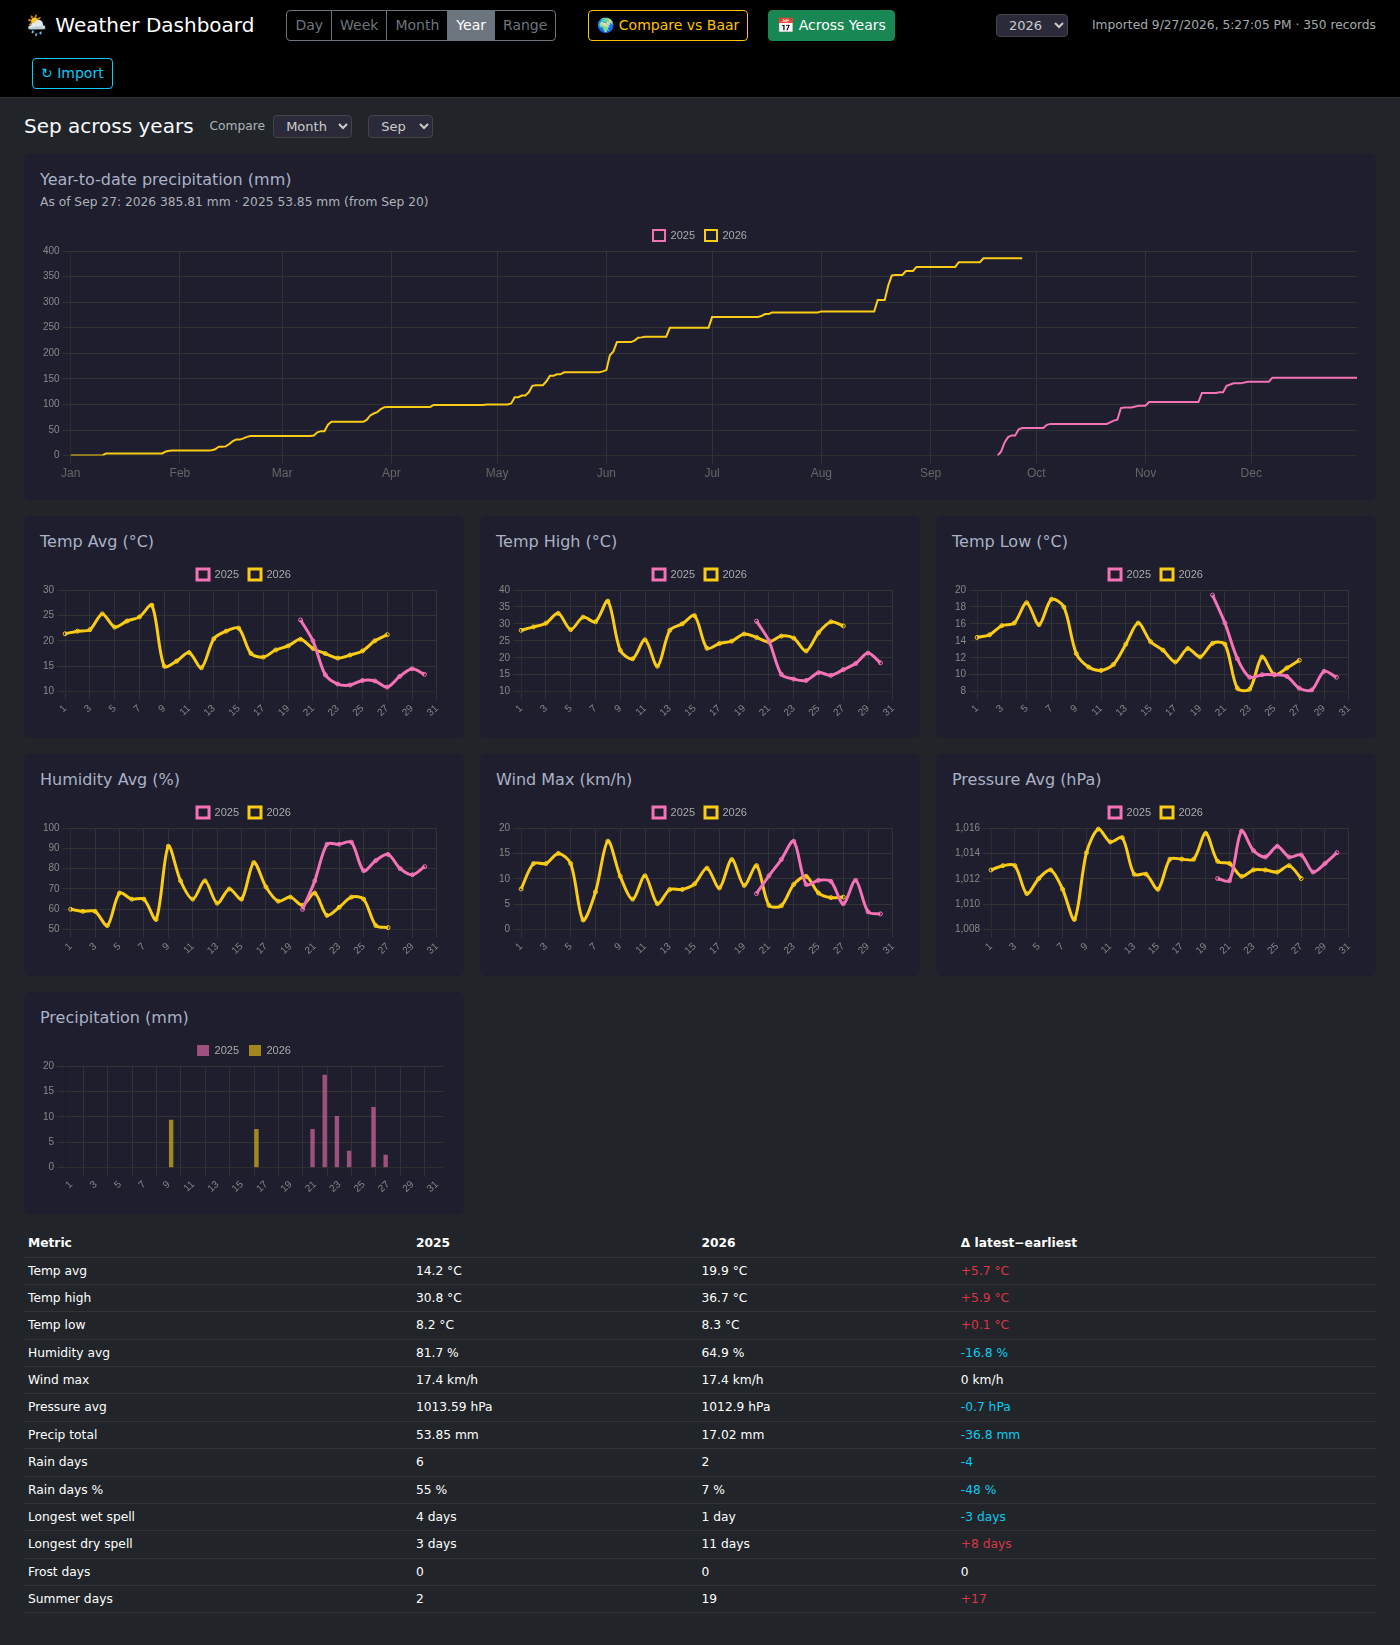
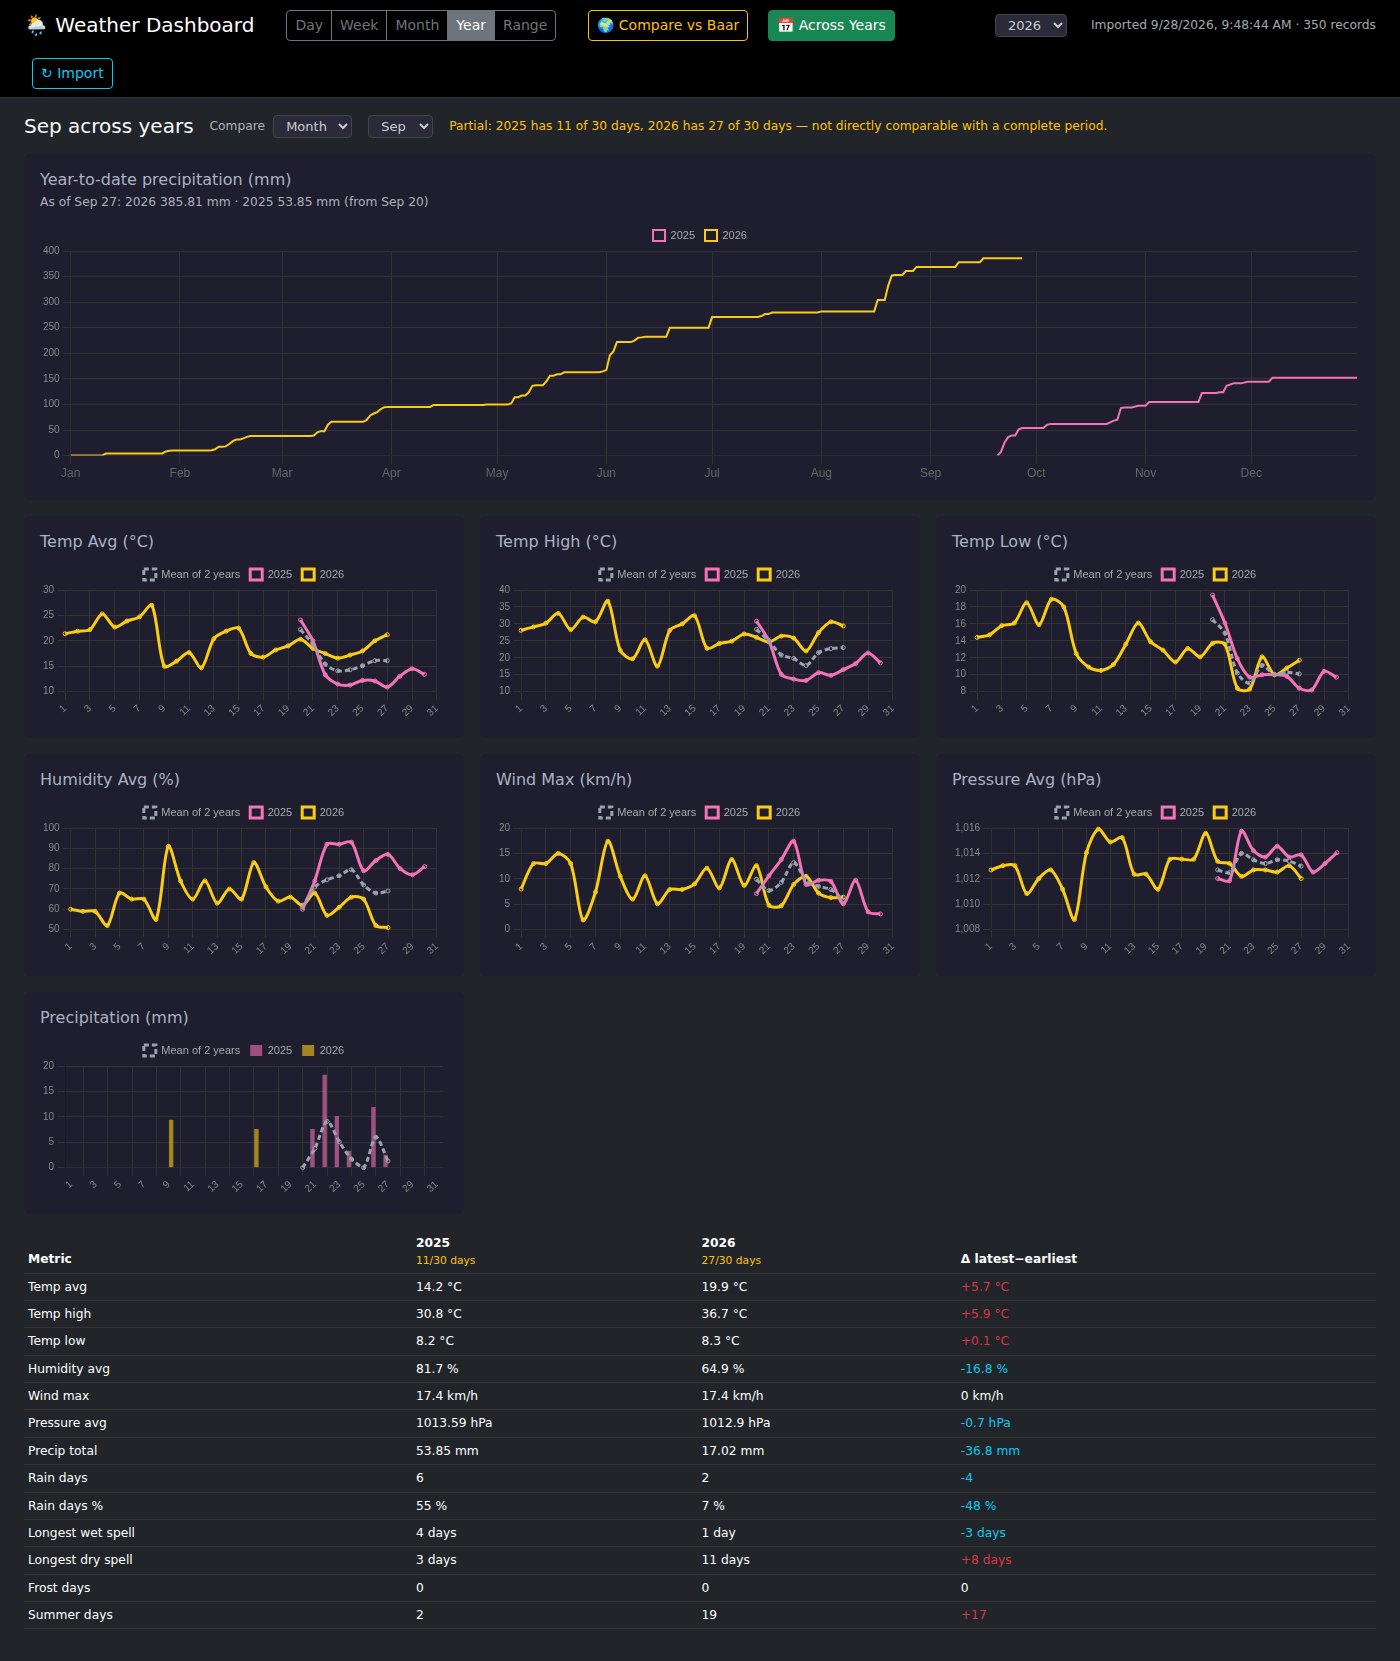
Across Years: flag partial periods and add a mean-of-years baseline (#55)
The year-over-year view set each year's figures side by side with no sign
of how many days stood behind them, so a March five days old read as
directly comparable with a whole March.

- /api/across-years now returns `days: { recorded, total }` per year: the
  days behind its figures against the period's calendar length. Unlike the
  period routes' `coverage`, this is deliberately not clipped to the
  recorded span — a month still under way is complete as far as the station
  goes, but its averages still aren't comparable with a full month.
- YOY_UNITS on the server now names each unit's calendar window rather than
  its rows, since the window's length is what the day count needs. That
  leaves queryDayRows/queryWeek/queryMonth with no callers, so they go.
- The comparison table labels each year's column "11/30 days", in amber
  when partial, and the status line names the partial years.
- Every Across Years chart gains a dashed "Mean of N years" line, drawn
  only on slots at least two years recorded — a one-year "mean" would just
  retrace that year.
- A route test covers the day counts per unit, and the screenshot harness
  now checks the table carries them.

Claude-Session: https://claude.ai/code/session_017B5bieJSamREjjakLR6pLt

diff --git a/src/client/app.ts b/src/client/app.ts
@@ -1640,8 +1640,27 @@ function renderCompareSummary(sides: CompareSide[]): void {
 // gathers each year's rows for the chosen period; here each year becomes one
 // overlaid series (aligned on a shared within-period axis) plus one column in
 // the averages table.
-interface YearBlock { year: number; rows: WeatherRow[]; stats: Stats; }
+interface YearBlock {
+  year: number;
+  rows: WeatherRow[];
+  stats: Stats;
+  /** Days behind this year's figures, against the period's calendar length. */
+  days: { recorded: number; total: number };
+}
 interface YoyResponse { unit: YoyUnit; label: string; years: YearBlock[]; }
+
+/**
+ * A year that recorded only part of the period — started mid-month, still
+ * under way, or with gaps. Its averages and totals cover fewer days than a
+ * complete year's, so setting the two side by side needs saying so: a March
+ * five days old next to a whole March otherwise reads as a like-for-like pair.
+ */
+const isPartial = (y: YearBlock): boolean => y.days.recorded < y.days.total;
+
+/** A year's column head: the year, and how many of the period's days it holds. */
+const yearHead = (y: YearBlock): string =>
+  `${y.year}<div class="small fw-normal ${isPartial(y) ? 'text-warning' : 'text-muted'}">` +
+  `${y.days.recorded}/${plural(y.days.total, 'day')}</div>`;
 
 /**
  * One entry per comparison unit — its `ControlStrip` (label, value pickers and
@@ -1786,9 +1805,16 @@ async function loadYoy(): Promise<void> {
     clearView(YOY_VIEW);
     return;
   }
-  status.textContent = data.years.length < 2
-    ? `Only ${data.years[0].year} has data for this period — add another year to compare.`
-    : '';
+  const partial = data.years.filter(isPartial);
+  status.textContent = [
+    data.years.length < 2
+      ? `Only ${data.years[0].year} has data for this period — add another year to compare.`
+      : '',
+    partial.length
+      ? `Partial: ${partial.map(y => `${y.year} has ${y.days.recorded} of ${plural(y.days.total, 'day')}`)
+          .join(', ')} — not directly comparable with a complete period.`
+      : '',
+  ].filter(Boolean).join(' ');
 
   const spec = YOY_UNITS[data.unit];
   const { positions, labels: xlabels } = spec.axis(data.label);
@@ -1796,21 +1822,40 @@ async function loadYoy(): Promise<void> {
   // year's value (or null where a year is missing that day).
   const byPos = data.years.map(yb => new Map(yb.rows.map(row => [spec.pos(row), row])));
 
-  drawCharts(YOY_VIEW, xlabels, (metric, type) =>
-    data.years.map((yb, i) =>
+  drawCharts(YOY_VIEW, xlabels, (metric, type) => {
+    const perYear = data.years.map((yb, i) =>
       series(
         type,
         String(yb.year),
         positions.map(p => { const row = byPos[i].get(p); return row ? metric.get(row) : null; }),
         yearColor(yb.year),
-      )));
+      ));
+    if (data.years.length < 2) return perYear;
+    // The mean of every year that recorded the slot — the baseline a single
+    // year reads as warm, wet or windy against. Per slot, so a partial year
+    // weighs in only on the days it has; and only where at least two years
+    // did, since the "mean" of one year is just that year's line again. Always
+    // a dashed line, even over the precipitation bars, so it reads as a
+    // reference rather than another year.
+    const meanLine = positions.map(p => {
+      const vals = byPos.flatMap(m => { const row = m.get(p); return row ? [metric.get(row)] : []; });
+      return vals.length >= 2 ? round1(mean(vals)) : null;
+    });
+    return [
+      ...perYear,
+      series('line', `Mean of ${data.years.length} years`, meanLine, HUE.gray, {
+        type: 'line', borderDash: [5, 3], order: -1,
+      }),
+    ];
+  });
 
   renderYoySummary(data);
 }
 
 function renderYoySummary(data: YoyResponse): void {
   renderDeltaTable(YOY_VIEW.table, {
-    columns: data.years.map(y => y.year),
+    // Each year's head says how many of the period's days its figures cover.
+    columns: data.years.map(yearHead),
     metrics: YOY_SUMMARY,
     label: m => m.label,
     // A row names the stat card it reads, so both the accessor and the unit come

diff --git a/src/server.ts b/src/server.ts
@@ -4,9 +4,9 @@ import { dayCount, eachDay, isoDay, ymd } from './dates';
 import { computeNormals, MD_AXIS, NormalRow, NORMALS_PERIOD } from './normals';
 import { DATA_FILE, describeImport, importFile } from './import';
 import {
-  queryDayRows, queryWeek, queryMonth, queryRange, queryWindow, coverage, Window,
+  queryRange, queryWindow, coverage, Window,
   dayWindow, weekWindow, monthWindow, yearWindow,
-  queryAllDates, queryYears, aggregateStats, getMeta, WeatherRow, precipYtd,
+  queryAllDates, queryYears, aggregateStats, getMeta, precipYtd,
   queryPublicRange, upsertPublic, PublicRow, PublicField, PUBLIC_FIELDS,
   queryNormals, upsertNormals,
 } from './db';
@@ -152,33 +152,37 @@ function rowsRoute<T extends string | number = string>(
 
 /**
  * One entry per year-over-year comparison unit: the params it needs, the label
- * it puts on the result, and how to gather one year's rows. Dispatching the
+ * it puts on the result, and one year's calendar window for it. Dispatching the
  * unit once here keeps a new unit to a single entry, instead of a three-arm
  * if/else that spelled out validation, labelling and querying separately.
+ *
+ * A window rather than the rows themselves, because the reply also says how
+ * much of the period each year actually covers — which needs the period's
+ * calendar length, not just the days that happen to be stored.
  */
 interface YoyUnit {
   /** Query params that must be present and numeric. */
   needs: string[];
   label: (q: Record<string, number>) => string;
-  /** One year's rows for this unit. */
-  rows: (q: Record<string, number>, year: number) => WeatherRow[];
+  /** One year's calendar window for this unit. */
+  window: (q: Record<string, number>, year: number) => Window;
 }
 
 const YOY_UNITS: Record<string, YoyUnit> = {
   day: {
     needs: ['month', 'day'],
     label: q => `${monthName(q.month)} ${q.day}`,
-    rows: (q, y) => queryDayRows(ymd(y, q.month, q.day)),
+    window: (q, y) => dayWindow(ymd(y, q.month, q.day)),
   },
   week: {
     needs: ['week'],
     label: q => `Week ${q.week}`,
-    rows: (q, y) => queryWeek(y, q.week),
+    window: (q, y) => weekWindow(y, q.week),
   },
   month: {
     needs: ['month'],
     label: q => monthName(q.month),
-    rows: (q, y) => queryMonth(y, q.month),
+    window: (q, y) => monthWindow(y, q.month),
   },
 };
 
@@ -264,6 +268,13 @@ app.get('/api/compare', async (req, res) => {
 //   ?unit=day&month=3&day=15   → 15 March of each year
 // Each year is returned with its rows and aggregated stats; years with no data
 // for that period are omitted, so with one year of data it degrades to one.
+//
+// Each year also carries `days: { recorded, total }` — the days behind its
+// averages against the period's full calendar length. Unlike the period
+// routes' `coverage`, this is NOT clipped to the recorded span: a March that is
+// only 5 days old is complete as far as the station goes, but its averages
+// still aren't comparable with a whole March, and that is what this view needs
+// to say.
 app.get('/api/across-years', (req, res) => {
   // Name the unit once: the same string picks the spec that answers the
   // request and labels the reply. Echoing `req.query.unit` back instead
@@ -282,9 +293,17 @@ app.get('/api/across-years', (req, res) => {
   if (!q) return;
 
   const years = queryYears()
-    .map(year => ({ year, rows: spec.rows(q, year) }))
+    .map(year => {
+      const w = spec.window(q, year);
+      return { year, rows: queryWindow(w), total: dayCount(w.from, w.to) };
+    })
     .filter(x => x.rows.length)
-    .map(x => ({ ...x, stats: aggregateStats(x.rows) }));
+    .map(({ year, rows, total }) => ({
+      year,
+      rows,
+      stats: aggregateStats(rows),
+      days: { recorded: rows.length, total },
+    }));
 
   res.json({ unit, label: spec.label(q), years });
 });

diff --git a/src/server.test.ts b/src/server.test.ts
@@ -53,6 +53,35 @@ test('the day route 404s on a missing day; bad params are 400s', async () => {
   assert.equal((await get('/api/across-years?unit=decade')).status, 400);
 });
 
+test('across-years says how many of the period\'s days each year covers', async () => {
+  // March 2020 holds 4 days, March 2021 just one — both partial months. Neither
+  // is clipped to the recorded span: the comparison is against a whole March.
+  const month = await get('/api/across-years?unit=month&month=3');
+  assert.equal(month.status, 200);
+  assert.deepEqual(
+    month.body.years.map((y: any) => [y.year, y.days]),
+    [[2020, { recorded: 4, total: 31 }], [2021, { recorded: 1, total: 31 }]],
+  );
+
+  // A single day is complete wherever it is recorded, and a year without it is
+  // left out rather than reported as 0 of 1.
+  const day = await get('/api/across-years?unit=day&month=3&day=1');
+  assert.deepEqual(
+    day.body.years.map((y: any) => [y.year, y.days]),
+    [[2020, { recorded: 1, total: 1 }], [2021, { recorded: 1, total: 1 }]],
+  );
+  const onlyOne = await get('/api/across-years?unit=day&month=3&day=4');
+  assert.deepEqual(onlyOne.body.years.map((y: any) => y.year), [2020]);
+
+  // ISO week 10 is 2–8 March 2020 (three of its days recorded) but 8–14 March
+  // 2021, which holds none — so only 2020 is compared, out of seven days.
+  const week = await get('/api/across-years?unit=week&week=10');
+  assert.deepEqual(
+    week.body.years.map((y: any) => [y.year, y.days]),
+    [[2020, { recorded: 3, total: 7 }]],
+  );
+});
+
 test('precip-ytd accumulates within each year', async () => {
   const { body } = await get('/api/precip-ytd');
   assert.deepEqual(body.years.map((y: any) => [y.year, y.days.at(-1).total]), [[2020, 4], [2021, 2]]);

diff --git a/src/db.ts b/src/db.ts
@@ -150,16 +150,7 @@ export function weekWindow(year: number, week: number): Window {
 /** The rows inside a window — every period query is one of these. */
 export const queryWindow = (w: Window): WeatherRow[] => queryRange(w.from, w.to);
 
-/** One day as a row list — the row-list shape every other period query returns. */
-export const queryDayRows = (date: string): WeatherRow[] => queryWindow(dayWindow(date));
-
-export const queryMonth = (year: number, month: number): WeatherRow[] =>
-  queryWindow(monthWindow(year, month));
-
 export const queryYear = (year: number): WeatherRow[] => queryWindow(yearWindow(year));
-
-export const queryWeek = (year: number, week: number): WeatherRow[] =>
-  queryWindow(weekWindow(year, week));
 
 /** Every stored row. Only the import needs this — it diffs against what's there. */
 export function queryAllRows(): WeatherRow[] {

diff --git a/screenshot.ts b/screenshot.ts
@@ -85,6 +85,13 @@ const STAT_READY = () => document.getElementById('s-temp-avg')?.textContent !== 
       () => (document.getElementById('ytd-note')?.textContent ?? '').startsWith('As of'),
       undefined, { timeout: 15000 },
     );
+    // Each year's column in the comparison table says how many of the period's
+    // days its figures cover ("18/31 days"), so a partial period can't pass
+    // for a complete one.
+    await page.waitForFunction(
+      () => /\d+\/\d+ days?/.test(document.getElementById('yoy-table-head')?.textContent ?? ''),
+      undefined, { timeout: 15000 },
+    );
     await page.screenshot({ path: path.join(__dirname, 'dashboard-yoy.png'), fullPage: true });
     console.log('Screenshot: dashboard-yoy.png');
   } catch (e) {

diff --git a/CLAUDE.md b/CLAUDE.md
@@ -23,7 +23,7 @@ npm run screenshot   # ts-node --transpile-only screenshot.ts — the verificati
 npm test             # type-check the tests, then node:test over src/**/*.test.ts
 ```
 
-**Tests** use Node's built-in `node:test` + `node:assert`, run through `ts-node` (no extra framework). `npm test` first type-checks them with `tsconfig.test.json` (the build's `tsconfig.json` excludes `*.test.ts` and `src/test/` so they never reach `dist/`), then runs every `src/**/*.test.ts`. Each test file imports `src/test/helpers.ts` **first**: it sets `WEATHER_DB` to a throwaway SQLite file before `db.ts` opens one, so tests never touch the real `weather.db`, and `node --test` gives every file its own process and database. `server.ts` only listens when it is the entry point and exports `app`, so `server.test.ts` drives real routes on an ephemeral port; its Compare test pre-fills the public-data and normals caches so it never reaches the network. There is **no linter configured**. `screenshot.ts` is the end-to-end verification harness: it drives the running server with Playwright, asserts every period renders with populated stat cards, checks the Year period draws the calendar heatmap and Across Years draws the year-to-date rain chart, captures `dashboard*.png`, and **exits non-zero** on any console error, page error, failed same-origin request, or empty stat card. Run it against a live server:
+**Tests** use Node's built-in `node:test` + `node:assert`, run through `ts-node` (no extra framework). `npm test` first type-checks them with `tsconfig.test.json` (the build's `tsconfig.json` excludes `*.test.ts` and `src/test/` so they never reach `dist/`), then runs every `src/**/*.test.ts`. Each test file imports `src/test/helpers.ts` **first**: it sets `WEATHER_DB` to a throwaway SQLite file before `db.ts` opens one, so tests never touch the real `weather.db`, and `node --test` gives every file its own process and database. `server.ts` only listens when it is the entry point and exports `app`, so `server.test.ts` drives real routes on an ephemeral port; its Compare test pre-fills the public-data and normals caches so it never reaches the network. There is **no linter configured**. `screenshot.ts` is the end-to-end verification harness: it drives the running server with Playwright, asserts every period renders with populated stat cards, checks the Year period draws the calendar heatmap and Across Years draws the year-to-date rain chart and labels each year with its recorded day count, captures `dashboard*.png`, and **exits non-zero** on any console error, page error, failed same-origin request, or empty stat card. Run it against a live server:
 
 ```bash
 npm run dev &        # server must be up first

diff --git a/README.md b/README.md
@@ -41,7 +41,11 @@ server to run.
   downloaded once and cached) so a period reads as warmer, colder, wetter or
   drier than usual — for your station and for Baar.
 - **Across Years** — the same day, week or month compared year over year, with
-  a year-to-date precipitation chart overlaying each year's running rain total.
+  a dashed mean-of-years baseline on every chart and a year-to-date
+  precipitation chart overlaying each year's running rain total. Each year's
+  column says how many of the period's days it recorded (e.g. `11/30 days`),
+  and a partial period is flagged, so a half-recorded month can't pass for a
+  like-for-like comparison.
 - **One-click re-import** — drop in a fresh station export and hit **↻ Import**;
   ingestion is idempotent, so re-importing never duplicates rows.
 
@@ -104,7 +108,7 @@ The front end is a thin client over these routes; each period route returns
 | `GET /api/year?year=` | A full year |
 | `GET /api/range?from=&to=` | Any inclusive date range |
 | `GET /api/compare?from=&to=` | Your data aligned with Open-Meteo for the reference location |
-| `GET /api/across-years?unit=&…` | The same day, week or month gathered from every year |
+| `GET /api/across-years?unit=&…` | The same day, week or month gathered from every year, each with its recorded vs calendar day count |
 | `GET /api/precip-ytd` | Each year's running precipitation total, one point per recorded day |
 | `GET /api/dates` | All available dates |
 | `GET /api/status` | Last import time + record count |
